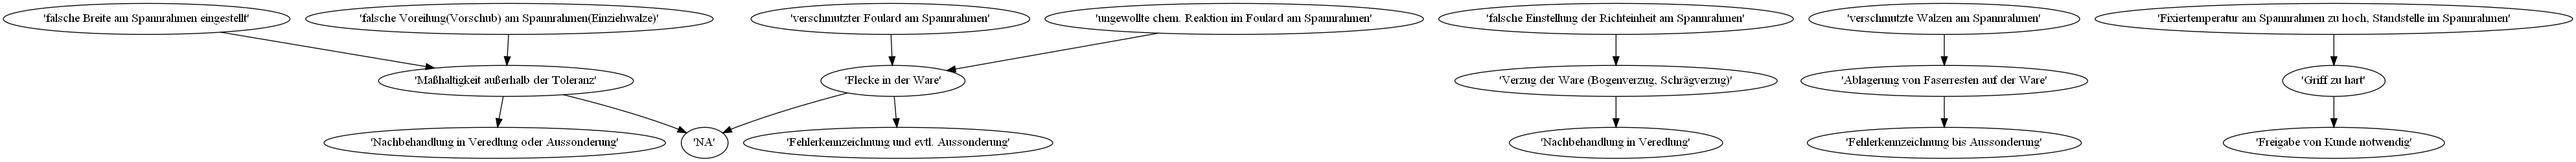
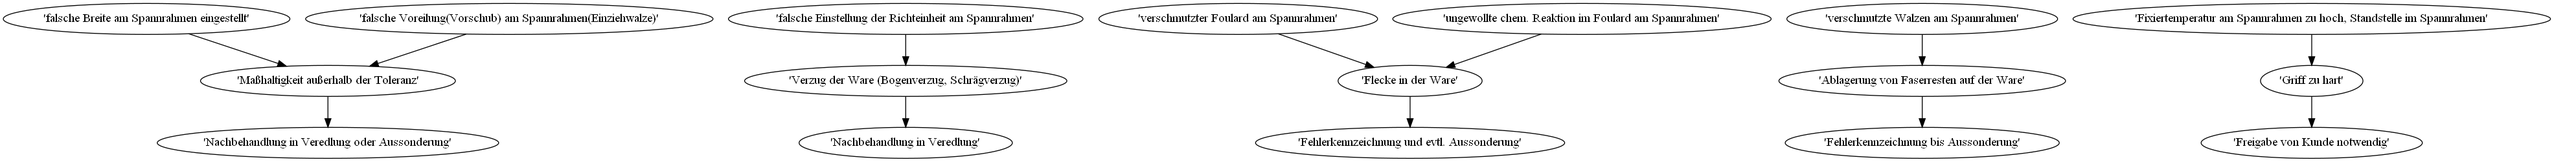
Updated Bayesian Network Diagrams and Ordered List Cause Output

diff --git a/failure_tree.py b/failure_tree.py
@@ -1,6 +1,6 @@
 #Author: Evan Kaseman
 #Created: 5/29/2020
-#Last Updated: 7/5/2020
+#Last Updated: 7/12/2020
 
 #The purpose of this program is to create a failure tree for
 #a self-learning expert system. This failure tree will be used
@@ -16,14 +16,17 @@ from pgmpy.models import BayesianModel
 from pgmpy.factors.discrete import TabularCPD
 from networkx.drawing.nx_pydot import to_pydot
 
-#Class to create process objects to store all aspects of process    
+# Global variables
+df = None
+files = 0
+processes = []
+
+# Class to create process objects to store all aspects of process    
 class Process:
     def __init__(self, name):
         super().__init__()
         self.name = name
         self.errors = []
-    #    self.causes = []
-    #    self.effects = []
     #add new error to process        
     def add_error(self, error):
         self.errors.append(error)
@@ -36,23 +39,7 @@ class Process:
     def __repr__(self):
         return f'{self.name!r}'
 
-    # Idea is to have this in as part of the process object to create the Bayesian Newtork to allow for 
-    # errors to have the same causes or the same effects
-
-    # #add new cause to the errors in the process
-    # def add_cause(self, cause):
-    #     self.causes.append(cause) 
-    # #access cause of errors in the process
-    # def get_causes(self):
-    #     return self.causes
-    # #add new effect of the errors in the process
-    # def add_effect(self, effect):
-    #     self.effects.append(effect)
-    # #access effects of the errors in the process
-    # def get_effect(self):
-    #     return self.effects
-
-#Class to create error objects to store all aspects of the error
+# Class to create error objects to store all aspects of the error
 class Error:
     def __init__(self, name):
         super().__init__()
@@ -108,7 +95,7 @@ class Error:
     def __repr__(self):
         return f'{self.name!r}'
     
-#Class to create cause objects to store all aspects of the cause
+# Class to create cause objects to store all aspects of the cause
 class Cause:
     def __init__(self, name, probability):
         super().__init__()
@@ -123,7 +110,7 @@ class Cause:
     def __repr__(self):
         return f'{self.name!r}'
 
-#Class to create effect objects to store all aspects of the effect
+# Class to create effect objects to store all aspects of the effect
 class Effect:
     def __init__(self, name, severity):
         super().__init__()
@@ -138,7 +125,7 @@ class Effect:
     def __repr__(self):
         return f'{self.name!r}'
 
-#Class to create detection objects to store all aspects of the detection process
+# Class to create detection objects to store all aspects of the detection process
 class Detection:
     def __init__(self, name, probability):
         super().__init__()
@@ -153,7 +140,7 @@ class Detection:
     def __repr__(self):
         return f'{self.name!r}'
 
-#Class to create action objects to store all aspects of action to be taken
+# Class to create action objects to store all aspects of action to be taken
 class Action:
     def __init__(self, action_to_be_taken):
         super().__init__()
@@ -167,64 +154,112 @@ class Action:
     def __repr__(self):
         return f'{self.action_to_be_taken!r}'
 
+# Take FMEA Excel data and store the errors, causes, effects, etc. in each
+# of the respective processes
 def populate_data(df, files):
+    # loop repeatedly until the last row of data is parsed and organized to be added to the
+    # Bayesian Network 
     for i in range(len(df)):
+        # Only enter this if statement if the row has a new error in the first column
         if (df.at[i,1] != "NA"):
             curr_error = Error(df.at[i,1])
-            curr_error.add_effect(df.at[i,2],df.at[i,3])
-            curr_error.add_cause(df.at[i,5],df.at[i,6])
-            curr_error.add_detection_method(df.at[i,8],df.at[i,9])
-            curr_error.add_action(df.at[i,11])
+            # Only add effect if the cell in column 2 is not "NA"
+            if (df.at[i,2] != "NA"):
+                curr_error.add_effect(df.at[i,2],df.at[i,3])
+            # Only add cause if the cell in column 5 is not "NA"
+            if (df.at[i,5] != "NA"):
+                curr_error.add_cause(df.at[i,5],df.at[i,6])
+            # Only add detection method if the cell in column 8 is not "NA"
+            if (df.at[i,8] != "NA"):
+                curr_error.add_detection_method(df.at[i,8],df.at[i,9])
+            # Only add action if the cell in column 11 is not "NA"
+            if (df.at[i,11] != "NA"):
+                curr_error.add_action(df.at[i,11])
+            # If the next row has a new error in it or if in the last row, add the error to the process
             if ((i+1 == len(df)) or (df.at[i+1,1] != "NA")):
                 processes[files].add_error(curr_error)
+        # If the row does not have a new error in the first column, this is an additional
+        # cause and/or effect that is added to the current error
         else:
-            curr_error.add_effect(df.at[i,2],df.at[i,3])
-            curr_error.add_cause(df.at[i,5],df.at[i,6])
-            curr_error.add_detection_method(df.at[i,8],df.at[i,9])
-            curr_error.add_action(df.at[i,11])
+            if (df.at[i,2] != "NA"):
+                curr_error.add_effect(df.at[i,2],df.at[i,3])
+            if (df.at[i,5] != "NA"):
+                curr_error.add_cause(df.at[i,5],df.at[i,6])
+            if (df.at[i,8] != "NA"):
+                curr_error.add_detection_method(df.at[i,8],df.at[i,9])
+            if (df.at[i,11] != "NA"):
+                curr_error.add_action(df.at[i,11])
             if ((i+1 == len(df)) or (df.at[i+1,1] != "NA")):
                 processes[files].add_error(curr_error)
 
-#list of processes in the weaving process
-process_names = ['Finished Goods','Fixed Goods','Yarn','Washed Goods','Water-Repellent Goods','Warp Beam','Raw Goods']
+# Create a Bayesian Network for each process and add it to the list of Bayesian Networks.  Then, plot the BN in an png file
+def create_network(models, processes, files): 
+    for p in range(files):
+        temp_model = BayesianModel()
+        for e in range(len(processes[p].get_errors())):
+            temp_error = processes[p].get_error(e)
+            for c in range(len(temp_error.get_causes())):
+                temp_cause = temp_error.get_cause(c)
+                q = temp_cause.get_occ_prob()/temp_error.get_total_cause_prob()
+                temp_cause.set_occ_prob(q)
+                temp_model.add_nodes_from([temp_cause,temp_error])
+                temp_model.add_edge(temp_cause,temp_error)
+                temp_cause_cpd = TabularCPD(variable = temp_cause, variable_card = 2, values = [[q,1-q]])
+                temp_model.add_cpds(temp_cause_cpd)
+            temp_error_cpd = TabularCPD(variable = temp_error, variable_card=2, 
+                                        values = get_initial_error_cpd(len(temp_error.get_causes())), 
+                                        evidence = temp_error.get_causes(),
+                                        evidence_card = [2]*(len(temp_error.get_causes())))
+            temp_model.add_cpds(temp_error_cpd)
+            for f in range(len(temp_error.get_effects())):
+                temp_effect = temp_error.get_effect(f)
+                temp_model.add_nodes_from([temp_error,temp_effect])
+                temp_model.add_edge(temp_error,temp_effect)
+        models.append(temp_model)
+        #plotting Failure Tree
+        dot = to_pydot(models[p])
+        with open('failure_tree_graph_%s.png' % processes[p], 'wb') as f:
+            f.write(dot.create_png())
+        #Sample output of CPDs for causes and errors
+        for e in range(len(processes[p].get_errors())):
+            for c in range(len(processes[p].get_error(e).get_causes())):
+                print(temp_model.get_cpds(processes[p].get_error(e).get_cause(c)))
+            print(temp_model.get_cpds(processes[p].get_error(e)))
 
-#creating a list of Process objects 
-processes = []
-for x in range(len(process_names)):
-    processes.append(Process(process_names[x]))
-
-#### importing data from FMEA excel files
-root= tk.Tk()
-
-canvas1 = tk.Canvas(root, width = 300, height = 300, bg = 'grey')
-canvas1.pack()
-
-df = None # variable must exist in global namespace first
-files = 0
-
+# Function to read in the Excel file from the FMEA data. The usecols argument of the read_excel method was used to select
+# the appropriate columns of the dataset for the failures, causes, effects as well as the probability of occurrence, severity,
+# and detection probability. Additionally, the actions to be taken to resolve the error are read in to provide the appropriate 
+# suggestions for later action by the user.
 def getExcel ():
     global df
     global files
 
-    import_file_path = filedialog.askopenfilename()
+    # Opens up file explorer for user to select the desired FMEA data from an Excel file
+    import_file_path = filedialog.askopenfilename() 
+    # Read the excel file in and store the FMEA data in a DataFrame
     df = pd.read_excel(import_file_path, header=None, index_col=None, usecols="B:D,F,G,I,J,L", skiprows=range(10))
+    # Replace blank cells in the data with NaN. Then, remove rows at end of data
+    # if they are completely empty.
     df = df.replace(r'^\s+$', np.nan, regex=True).dropna(how='all')
+    # Replace NaN with the string "NA" so that it can be compared with type string later
     df = df.replace(np.nan, "NA", regex=True)
+    # Replace "NA" with 1.0 for the columns associated with the probability of occurrence,
+    # severity, or detection probability. Missing data is treated as a the lowest rating on
+    # a 1-5 scale, which is a 1.0
+    df = df.replace({3: "NA", 6: "NA", 9: "NA"}, 1)
+    # Call populate_data method to store FMEA data in Bayesian Network
     populate_data(df,files)
-    print (df)
+    # Increment file count to keep track of how many processes are being evaluated
     files = files + 1
-    #df.to_excel("FMEA_Data.xlsx")
-    
-    
-browseButton_Excel = tk.Button(text='Import Excel File', command=getExcel, bg='green', fg='white', font=('helvetica', 12, 'bold'))
-canvas1.create_window(150, 150, window=browseButton_Excel)
-
-root.mainloop()
 
 # initialize the error cpd using the Maximum Entropy theory because the conditional probabilities are unknown
 def get_initial_error_cpd(number_of_causes):
     values = []
-    # using Maximum Entropy theory, each failure cause has an equal 1/s probability, where s is the total number of failure causes
+    # Using Maximum Entropy theory, each failure cause has an equal 1/s probability, where s is the total number of failure causes.
+    # This is used because the conditional probabilities of the errors given the causes are not known.
+    # An initial CPD is established for each error based on the number of causes using this theory.
+    # Once the model is trained with more data, these probabilities will more accurately reflect the 
+    # true probabilities of the process.
     f = 1/number_of_causes
     if (number_of_causes == 1):
         values = [[1,0],[0,1]]
@@ -244,42 +279,54 @@ def get_initial_error_cpd(number_of_causes):
         values = []
     return values
 
-# Create a list of Bayesian Models for each of the processes
-models = []
+# function definition for sort method to sort causes by occurrence probability
+def sort_func(cause):
+    return cause.get_occ_prob()
 
-# Create a Bayesian Network for each process and add it to the list of Bayesian Networks.  Then, plot the BN in an png file 
-for p in range(files):
-    temp_model = BayesianModel()
-    for e in range(len(processes[p].get_errors())):
-        temp_error = processes[p].get_error(e)
-        for c in range(len(temp_error.get_causes())):
-            temp_cause = temp_error.get_cause(c)
-            q = temp_cause.get_occ_prob()/temp_error.get_total_cause_prob()
-            temp_model.add_nodes_from([temp_cause,temp_error])
-            temp_model.add_edge(temp_cause,temp_error)
-            temp_cause_cpd = TabularCPD(variable = temp_cause, variable_card = 2, values = [[q,1-q]])
-            temp_model.add_cpds(temp_cause_cpd)
-        temp_error_cpd = TabularCPD(variable = temp_error, variable_card=2, 
-                                    values = get_initial_error_cpd(len(temp_error.get_causes())), 
-                                    evidence = temp_error.get_causes(), #included 'Unknown Cause' here to account for other causes not in system
-                                    evidence_card = [2]*(len(temp_error.get_causes())))
-        temp_model.add_cpds(temp_error_cpd)
-        for f in range(len(temp_error.get_effects())):
-            temp_effect = temp_error.get_effect(f)
-            temp_model.add_nodes_from([temp_error,temp_effect])
-            temp_model.add_edge(temp_error,temp_effect)
-            ####### Not adding CPDs here for now as causes are main focus
-    models.append(temp_model)
-    #plotting Failure Tree
-    dot = to_pydot(models[p])
-    with open('failure_tree_graph_%s.png' % processes[p], 'wb') as f:
-        f.write(dot.create_png())
-    #print(temp_model.check_model())
-    #Sample output of CPDs for causes and errors
-    for e in range(len(processes[p].get_errors())):
-        for c in range(len(processes[p].get_error(e).get_causes())):
-            print(temp_model.get_cpds(processes[p].get_error(e).get_cause(c)))
-        print(temp_model.get_cpds(processes[p].get_error(e)))
+# prints ordered list of causes based on their occurrence probability
+def get_ordered_cause_list(processes):
+    for p in range(files):
+        for e in range(len(processes[p].get_errors())):
+            temp_error = processes[p].get_error(e)
+            # sort method to sort by occurrence probability. Reverse is true so that it sorts from largest cause to smallest in
+            # terms of probability
+            temp_error.get_causes().sort(key=sort_func, reverse=True)
+            # Print causes in order with their associated probability
+            print('Error: {}'.format(temp_error))
+            for c in range(len(temp_error.get_causes())):
+                print('{}. Cause: {} | Probability: {}'.format(c+1,temp_error.get_cause(c), temp_error.get_cause(c).get_occ_prob()))  
+            print()     
+
+def main():    
+    # list of processes in the weaving process
+    process_names = ['Finished Goods','Fixed Goods','Yarn','Washed Goods','Water-Repellent Goods','Warp Beam','Raw Goods']
+
+    # creating a list of Process objects 
+    for x in range(len(process_names)):
+        processes.append(Process(process_names[x]))
+        
+    #### importing data from FMEA excel files
+    root = tk.Tk()
+
+    canvas1 = tk.Canvas(root, width = 300, height = 300, bg = 'grey')
+    canvas1.pack()
+
+    browseButton_Excel = tk.Button(text='Import Excel File', command=getExcel, bg='green', fg='white', font=('helvetica', 12, 'bold'))
+    quit_button = tk.Button(text = 'Click and Quit', command=root.destroy)
+    canvas1.create_window(150, 150, window=browseButton_Excel)
+    canvas1.create_window(150, 200, window=quit_button)
+
+    root.mainloop()
+
+    # Create a list of Bayesian Models for each of the processes
+    models = []
+    # Call function to create Bayesian network for each process
+    create_network(models, processes, files)
+    # Call function to list causes for each error for each process
+    get_ordered_cause_list(processes)
+
+if __name__ == "__main__":
+    main()
 
 # class Application(tk.Frame):
 #     def __init__(self, master=None):
